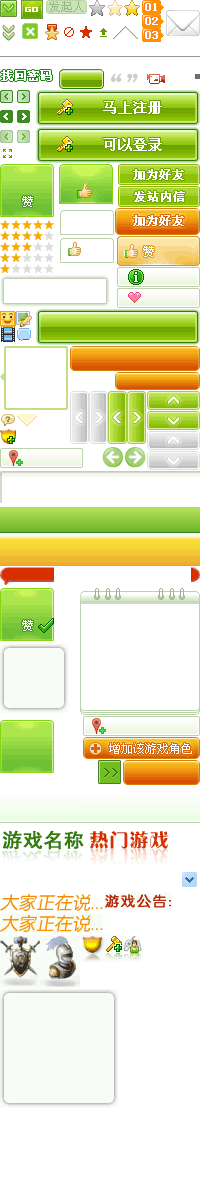
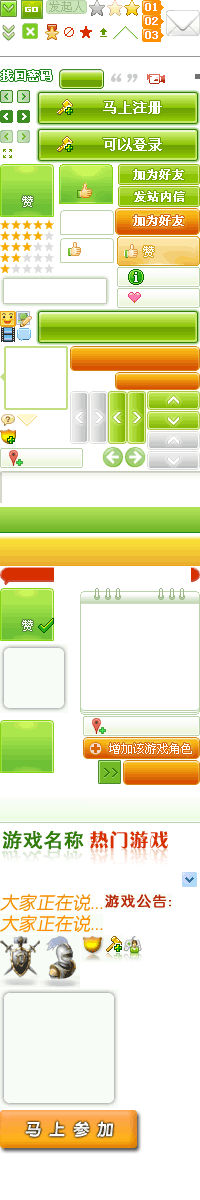
longdui changes

Changed region(s): [[0.0, 0.925, 0.72, 0.9867]]

diff --git a/public/stylesheets/home.css b/public/stylesheets/home.css
@@ -3,7 +3,6 @@ a{color:#25700D;}
 a:hover{color:#D63200;}
 
 
-
 #header,#page,#footer{margin:0 auto;width:940px;clear:both;}
 #page{margin-top:6px;}
 #footer a{color:#7E7F80}
@@ -1316,6 +1315,10 @@ span.i,a.i,.i40{width:16px;height:16px;margin-right:3px;display:-moz-inline-stac
 .iGuildJoin{background-position:0 -428px}
 .iGuildLogo{height:53px;background-position:0 -935px}
 .iGameLogo{height:53px;background-position:-40px -935px}
+a.iActBtn{width:142px;height:44px;background-position:0 -1110px}
+
+/*.iSetAvatar{background-position:-18px -429px}
+*/
 span.iGuild02{width:23px;height:27px;background-position:-81px -935px}
 span.iFunc02{width:19px;height:27px;background-position:-104px -935px}
 span.iRole02{width:19px;height:27px;background-position:-123px -935px}
@@ -1551,13 +1554,15 @@ span.sBtn button,span.sBtn a{height:25px;display:inline-block;line-height:25px;_
 
 /*我的微博*/
 .mBlogMyTopic{background:none}
-.mBlogMyTopic .topTitle{background:url(../images/skin/mblog-topic-bg02.png) no-repeat;height:52px}
-.mBlogMyTopic .topTitle .count{float:right;color:#217308;font-size:12px;margin:15px 15px 0 0}
-.mBlogMyTopic .topTitle .count .num{color:#c56601;font-family:Constantia,Georgia;font-size:24px;font-weight:bold;vertical-align:-2px;}
+.mBlogMyTopic .topTitle{background:url(../images/skin/mblog-topic-bg02.png) no-repeat;height:52px;}
+.mBlogMyTopic .topTitle .entrance{float:right;font-size:12px;color:#0986d5;margin:25px 0 0 0;line-height:20px;text-decoration:underline}
+.mBlogMyTopic .ft .submit{float:right}
+.mBlogMyTopic .ft .count{float:left;color:#217308;font-size:12px;margin:3px 10px 0 0;}
+.mBlogMyTopic .ft .count .num{color:#c56601;font-family:Constantia,Georgia;font-size:24px;font-weight:bold;vertical-align:-2px;}
 .mBlogMyTopic .mBlogEditor textarea{width:98%;padding:3px}
 .mBlogMyTopic .topBg{padding:10px;min-height:0;_height:0}
 .mBlogMyTopic .mBlogEditor .ft li{margin-top:8px}
-.mBlogMyTopic .mBlogEditor .button03{float:right;margin:3px 2px 0 0}
+.mBlogMyTopic .mBlogEditor .button03{float:left;margin:3px 2px 0 0}
 
 .mBlogTab{background:url(../images/skin/skin2010.png) repeat-x 0 -793px;margin-top:20px}
 .mBlogTab li,.mBlogTab li span{background:none}
@@ -1575,9 +1580,9 @@ span.sBtn button,span.sBtn a{height:25px;display:inline-block;line-height:25px;_
 .mBlogPostList .item .feedCon{float:left;width:100%;}
 .mBlogPostList .item .sp{margin-bottom:5px;_margin-bottom:10px;}
 .mBlogPostList .item .mCon .feedImg{float:left;margin-right:10px}
-.mBlogPostList .mConWrap{padding:1px;border:1px solid #ddd;width:98%;margin:0 auto}
-.mBlogPostList .mConWrap .mConBgT{background:#fff url(../images/skin/title-bg01.gif) repeat-x top;}
-.mBlogPostList .mConWrap .mConBgB{background:url(../images/skin/title-bg02.gif) repeat-x bottom;text-align:center;padding:10px;}
+.mConWrap{padding:1px;border:1px solid #ddd;width:98%;margin:0 auto}
+.mConWrap .mConBgT{background:#fff url(../images/skin/title-bg01.gif) repeat-x top;}
+.mConWrap .mConBgB{background:url(../images/skin/title-bg02.gif) repeat-x bottom;text-align:center;padding:10px;}
 .mBlogPostList .mConWrap .mCon{overflow:hidden;width:380px}
 .mBlogPostList .mConWrap .mCon .mTrans{text-align:left;}
 .mBlogPostList .mConWrap .mCon .mTrans .hd{color:#666}
@@ -1592,6 +1597,14 @@ span.sBtn button,span.sBtn a{height:25px;display:inline-block;line-height:25px;_
 .transIcon span,.transIcon a{background:url(../images/skin/skin2010.png) no-repeat;display:block;text-align:center;width:54px;}
 .transIcon span{background-position:0 -720px;color:#fff;font-size:14px;font-weight:700;height:53px;line-height:40px;}
 .transIcon a{background-position:-60px -210px;color:#217308;height:25px;line-height:25px;margin-top:3px;text-align:center}
+
+/*微博活动*/
+.mBlogAct{width:720px;margin:20px auto}
+.mBlogAct .mBlogActIntro{line-height:20px}
+.mBlogAct .mBlogActIntro .op{text-align:center;margin:10px 0}
+.mBlogAct .mBlogActBanner{margin:10px 0}
+.mBlogAct .ft{text-align:right}
+.mBlogAct .ft span{margin-left:10px}
 
 /*个人主页微博显示*/
 .mBlogProList{margin-top:15px}

diff --git a/public/stylesheets/welcome.css b/public/stylesheets/welcome.css
@@ -3,7 +3,6 @@
 .sperator-wrap .sperator{margin:0;}
 .sperator-wrap .sperator-main{background:url(../images/welcome/sperator01.gif) repeat-y center top}
 
-
 .body_bg01{background:url(../images/skin/bg01.png) no-repeat center top}
 .top_link{line-height:39px;text-align:right;color:#fff;overflow:hidden;}
 .welcome-box #navbar #navwrap #navmid{background:#73bd21 url(../images/welcome/top-bg.png) no-repeat 400px 0;}

diff --git a/public/stylesheets/common.css b/public/stylesheets/common.css
@@ -3,7 +3,6 @@ body,div,form,img,ul,ol,li,p,pre,button,dd,dt,dl{margin:0; padding:0;border:0;}
 table{border:0;border-collapse:collapse;border-spacing:0;}
 h1,h2,h3,h4,h5,h6,fieldset{margin:0; padding:0;}
 
-
 ul,ol{list-style:none;}
 input{font-size:12px;vertical-align:middle}
 textarea{font-size:12px;overflow:auto;color:#7E7F80;border:1px solid #bdd6ad}

diff --git a/config/routes.rb b/config/routes.rb
@@ -103,6 +103,8 @@ ActionController::Routing::Routes.draw do |map|
 
     users.resources :mini_topic_attentions, :member => {:follow => :post, :unfollow => :delete}
 
+    users.resources :promotions, :collection => {:wolves => :get}
+
     users.resources :fans
 
     users.resources :idols, :member => {:follow => :post, :unfollow => :delete}

diff --git a/test/functional/promotions_controller_test.rb b/test/functional/promotions_controller_test.rb
@@ -1,0 +1,8 @@
+require 'test_helper'
+
+class PromotionsControllerTest < ActionController::TestCase
+  # Replace this with your real tests.
+  test "the truth" do
+    assert true
+  end
+end

diff --git a/app/controllers/user/promotions_controller.rb b/app/controllers/user/promotions_controller.rb
@@ -1,0 +1,7 @@
+class User::PromotionsController < UserBaseController
+
+  layout 'app'
+
+	def wolves
+	end
+end

diff --git a/test/unit/helpers/promotions_helper_test.rb b/test/unit/helpers/promotions_helper_test.rb
@@ -1,0 +1,4 @@
+require 'test_helper'
+
+class PromotionsHelperTest < ActionView::TestCase
+end

diff --git a/app/helpers/promotions_helper.rb b/app/helpers/promotions_helper.rb
@@ -1,0 +1,2 @@
+module PromotionsHelper
+end
